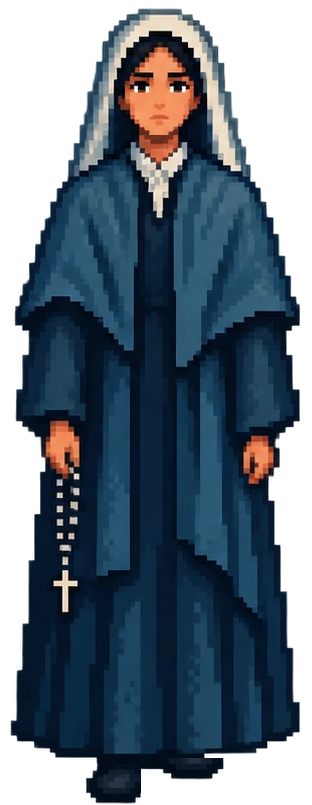
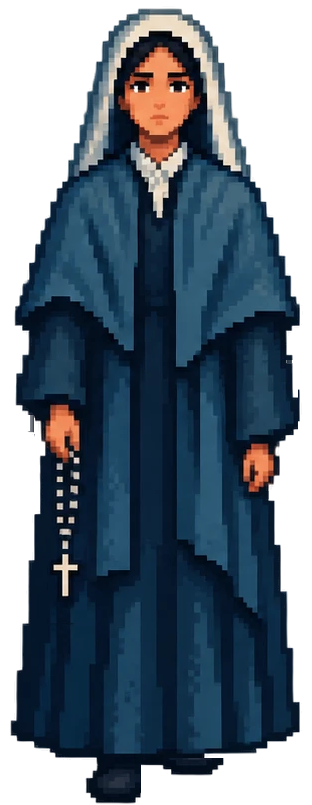
Smoother scrolling, sharper rendering and a livelier Bernadette walk
Scrolling: the overworld camera no longer rounds its scroll to whole world
pixels (Phaser floors it when roundPixels is on, so the ground jumped
3,3,5,3,3,7 framebuffer px per frame and diagonals stepped x and y on
different frames). Exact diagonals now start with x and y in the same
sub-pixel phase so both axes step together, physics steps once per rendered
frame (fixed 1/60s ticks stuttered on non-60Hz displays: 0,4,0,5,0,0,5 px at
144Hz), and the player's shadow syncs after physics instead of a frame late.

Rendering: PIXEL_SCALE 2 -> 4 (1920x1080 framebuffer), so Bernadette's art
gets ~196 framebuffer px instead of ~98, and the canvas is scaled smoothly by
the browser instead of nearest-neighbour. The ground layer skips tile culling,
which mis-culled at the new scale because of the top-left camera origin.

Walk: new frames built only from whole-pixel moves of the original art: arms
swing (front/back hands rise and drop, side arm shears about the shoulder),
the body bobs with each step, and the steps are longer.

Claude-Session: https://claude.ai/code/session_01SDh85j35maCe9Ux2UrYCxE

diff --git a/src/assets/player/bernadetteSprite.ts b/src/assets/player/bernadetteSprite.ts
@@ -1,6 +1,7 @@
 import Phaser from 'phaser';
 import { idleAnimKeyFor, textureKeyFor, walkAnimKeyFor, type FacingKey } from '../../pixelart/characters';
 import sideIdleUrl from './bernadette_side_idle.png';
+import sideWalkCUrl from './bernadette_side_walk_c.png';
 import sideWalkA1Url from './bernadette_side_walk_a1.png';
 import sideWalkA2Url from './bernadette_side_walk_a2.png';
 import sideWalkB1Url from './bernadette_side_walk_b1.png';
@@ -8,6 +9,7 @@ import sideWalkB2Url from './bernadette_side_walk_b2.png';
 import sideBreath1Url from './bernadette_side_breath_1.png';
 import sideBreath2Url from './bernadette_side_breath_2.png';
 import backIdleUrl from './bernadette_back_idle.png';
+import backWalkCUrl from './bernadette_back_walk_c.png';
 import backWalkA1Url from './bernadette_back_walk_a1.png';
 import backWalkA2Url from './bernadette_back_walk_a2.png';
 import backWalkB1Url from './bernadette_back_walk_b1.png';
@@ -15,6 +17,7 @@ import backWalkB2Url from './bernadette_back_walk_b2.png';
 import backBreath1Url from './bernadette_back_breath_1.png';
 import backBreath2Url from './bernadette_back_breath_2.png';
 import frontIdleUrl from './bernadette_front_idle.png';
+import frontWalkCUrl from './bernadette_front_walk_c.png';
 import frontWalkA1Url from './bernadette_front_walk_a1.png';
 import frontWalkA2Url from './bernadette_front_walk_a2.png';
 import frontWalkB1Url from './bernadette_front_walk_b1.png';
@@ -38,30 +41,37 @@ import frontBreath2Url from './bernadette_front_breath_2.png';
  * this one constant, so it applies uniformly to every facing/texture/animation frame (and her
  * shadow via `SHADOW_SCALE`).
  *
- * Walk frames (`_walk_a1/a2/b1/b2`): each idle image splits cleanly at a measured `feet_top` row
- * (side 760, front 758, back 764) below which there is nothing but boots. Every pixel above that
- * row -- head, veil, cape, hands, rosary and the entire habit -- is copied verbatim into every walk
- * frame (verified identical to idle, frame by frame). Only the boots below it are recomposed, by
- * pure integer translation of the original boot pixels, and whatever a raised foot would push
- * above `feet_top` is clipped away: the foot disappears *behind* the hem rather than over it.
- *  - Front/back: the stepping foot rises behind the hem (half, then full lift) while the other
- *    stays planted; `a*` lifts the left foot, `b*` the right.
- *  - Side: idle is the passing pose; stride frames spread the near foot forward and a slightly
- *    darkened copy of it (the far foot) back with its heel raised, `a*` near-foot-forward,
- *    `b*` far-foot-forward.
- * In every frame the planted foot keeps the idle pose's exact lowest row, so the ground-contact
- * line and the canvas/origin never move.
+ * Walk frames (`_walk_c/a1/a2/b1/b2`), livelier second pass ("que se mueva más, también los
+ * brazos"). Still nothing but whole-pixel moves of the original pixels -- no redrawing, no
+ * resampling -- in three layers:
+ *  - Feet: below a measured `feet_top` row (side 760, front 758, back 764) there is nothing but
+ *    boots. Front/back: the stepping foot rises behind the hem (14, then 28 px) while the other
+ *    stays planted; `a*` lifts the image-left foot, `b*` the right. Side: the near foot strides
+ *    forward and a slightly darkened copy of it (the far foot) back with its heel raised (+-20,
+ *    then +-40 px). Anything pushed above `feet_top` is clipped: feet go *behind* the hem.
+ *  - Arms, swinging against the feet: front/back -- the forward arm's forearm/hand(/rosary)
+ *    slides up 16 px (its sleeve loses that many rows: foreshortening) while the other slides
+ *    down 8 (its sleeve repeats a few rows of itself); the gap under a raised hand is filled with
+ *    the vertically-striped skirt right below it. Side -- sleeve, hand and rosary shear sideways,
+ *    0 at the shoulder growing to +-18 px at the hand (a small swing about the shoulder), the gap
+ *    behind filled by extending the neighbouring fabric of the same row. Arm regions were traced
+ *    from zoomed, gridded crops of the idle art.
+ *  - Bob: everything above a seam row low in the skirt drops by 0/6/12 px (rows of plain skirt
+ *    removed at the seam): lowest at contact, highest at passing. Hem and boots never move.
+ * `c` is the contact pose for front/back (feet together, arms neutral, body low) and the passing
+ * pose for side (identical to idle). In every frame the ground-contact row stays the idle pose's,
+ * so the canvas/origin never moves.
  *
  * Breathing frames (`_breath_1/2`): everything above a seam row low in the skirt sinks by 5 / 10
- * native px (about half / one framebuffer pixel at her display size), by dropping that many rows
- * of the plain vertically-striped skirt at the seam -- whole rows of the original pixels, no
+ * native px (about 1 / 2.5 framebuffer pixels at her display size), by dropping that many rows of
+ * the plain vertically-striped skirt at the seam -- whole rows of the original pixels, no
  * resampling. Below the seam (hem and boots) nothing changes. The seam row was picked per facing
  * where dropping rows is least visible (side 662, front 631, back 701).
  */
 const BERNADETTE_DISPLAY_HEIGHT_BEFORE_THIS_RESIZE = 72 * 0.4 * 2;
 export const BERNADETTE_FRAME_HEIGHT = BERNADETTE_DISPLAY_HEIGHT_BEFORE_THIS_RESIZE * 0.85;
 
-const WALK_STEPS = ['a1', 'a2', 'b1', 'b2'] as const;
+const WALK_STEPS = ['c', 'a1', 'a2', 'b1', 'b2'] as const;
 type WalkStep = (typeof WALK_STEPS)[number];
 
 const IDLE_URL_BY_FACING: Record<FacingKey, string> = {
@@ -70,9 +80,9 @@ const IDLE_URL_BY_FACING: Record<FacingKey, string> = {
   down: frontIdleUrl,
 };
 const WALK_URLS_BY_FACING: Record<FacingKey, Record<WalkStep, string>> = {
-  side: { a1: sideWalkA1Url, a2: sideWalkA2Url, b1: sideWalkB1Url, b2: sideWalkB2Url },
-  up: { a1: backWalkA1Url, a2: backWalkA2Url, b1: backWalkB1Url, b2: backWalkB2Url },
-  down: { a1: frontWalkA1Url, a2: frontWalkA2Url, b1: frontWalkB1Url, b2: frontWalkB2Url },
+  side: { c: sideWalkCUrl, a1: sideWalkA1Url, a2: sideWalkA2Url, b1: sideWalkB1Url, b2: sideWalkB2Url },
+  up: { c: backWalkCUrl, a1: backWalkA1Url, a2: backWalkA2Url, b1: backWalkB1Url, b2: backWalkB2Url },
+  down: { c: frontWalkCUrl, a1: frontWalkA1Url, a2: frontWalkA2Url, b1: frontWalkB1Url, b2: frontWalkB2Url },
 };
 const BREATH_URLS_BY_FACING: Record<FacingKey, [string, string]> = {
   side: [sideBreath1Url, sideBreath2Url],
@@ -115,7 +125,7 @@ export function preloadBernadetteSprite(scene: Phaser.Scene): void {
  * and LINEAR is what makes that downscale read smooth instead of aliased.
  *
  * One walk animation per facing, 8 frames at 12fps (~0.67s per full two-step cycle):
- * `[idle, a1, a2, a1, idle, b1, b2, b1]` -- each foot eases up and back down rather than snapping.
+ * `[c, a1, a2, a1, c, b1, b2, b1]` -- each step eases in and back out rather than snapping.
  * `Player.ts` only plays this while actually moving.
  *
  * One idle (breathing) animation per facing, played whenever she stands still (including while
@@ -136,7 +146,7 @@ export function registerBernadetteSprite(scene: Phaser.Scene): void {
     if (!scene.anims.exists(animKey)) {
       scene.anims.create({
         key: animKey,
-        frames: [idleKey, key('a1'), key('a2'), key('a1'), idleKey, key('b1'), key('b2'), key('b1')].map((k) => ({ key: k })),
+        frames: [key('c'), key('a1'), key('a2'), key('a1'), key('c'), key('b1'), key('b2'), key('b1')].map((k) => ({ key: k })),
         frameRate: 12,
         repeat: -1,
       });

diff --git a/src/gameplay/Player.ts b/src/gameplay/Player.ts
@@ -1,5 +1,5 @@
 import Phaser from 'phaser';
-import { DEPTH } from '../core/constants';
+import { DEPTH, PIXEL_SCALE } from '../core/constants';
 import { BERNADETTE_SHADOW_KEY, textureKeyFor } from '../pixelart/characters';
 import { BERNADETTE_FRAME_HEIGHT } from '../assets/player/bernadetteSprite';
 import { updateFacingAnimation, type Facing } from './spriteFacing';
@@ -50,6 +50,7 @@ export class Player extends Phaser.Physics.Arcade.Sprite {
   private touch: TouchControls | null;
   private locked = false;
   private shadow: Phaser.GameObjects.Image;
+  private lastDiagonal: string | null = null;
 
   constructor(scene: Phaser.Scene, x: number, y: number, touch: TouchControls | null = null) {
     super(scene, x, y, textureKeyFor('bernadette', 'down'));
@@ -79,6 +80,10 @@ export class Player extends Phaser.Physics.Arcade.Sprite {
     this.shadow = scene.add.image(x, y - 1, BERNADETTE_SHADOW_KEY);
     this.shadow.setOrigin(0.5, 0.5);
     this.shadow.setScale(SHADOW_SCALE);
+    // Arcade only writes this frame's movement into x/y on POST_UPDATE (see
+    // `OverworldScene.ts#updateCameraFollow()`), so syncing from `update()` alone left the shadow
+    // one frame behind her feet while walking.
+    scene.events.on(Phaser.Scenes.Events.POST_UPDATE, this.syncShadow, this);
 
     const keyboard = scene.input.keyboard!;
     this.cursors = keyboard.createCursorKeys();
@@ -139,6 +144,7 @@ export class Player extends Phaser.Physics.Arcade.Sprite {
     }
 
     this.moving = vx !== 0 || vy !== 0;
+    this.syncDiagonalPhase(vx, vy);
     if (this.moving) {
       // Normalize so diagonal movement isn't faster than a single cardinal direction.
       const len = Math.hypot(vx, vy) || 1;
@@ -152,12 +158,40 @@ export class Player extends Phaser.Physics.Arcade.Sprite {
     this.syncShadow();
   }
 
+  /**
+   * On an exact diagonal (keyboard: |vx| == |vy|) the camera scrolls the same distance on both
+   * axes every frame, but the ground can only land on whole framebuffer pixels -- and if her x and
+   * y sit at different sub-pixel phases, the x and y one-pixel steps happen on *different* frames,
+   * so the ground wobbles sideways around the direction of travel ("marea", worst on diagonals).
+   * When a diagonal starts, nudge y by under one framebuffer pixel (1/PIXEL_SCALE of a world pixel
+   * -- invisible, the camera follows her exactly) so both axes share one phase and step together.
+   * Measured against a sharp test grid on the framebuffer, all four diagonals: without this the
+   * axes were out of step on 11-18 of 23 frames, with it on none once the diagonal is under way.
+   * Done once per diagonal, never per frame, so sliding along a wall can't turn it into a
+   * back-and-forth.
+   */
+  private syncDiagonalPhase(vx: number, vy: number): void {
+    const diagonal = vx !== 0 && Math.abs(vx) === Math.abs(vy) ? `${Math.sign(vx)},${Math.sign(vy)}` : null;
+    if (diagonal && diagonal !== this.lastDiagonal) {
+      const frac = (v: number) => v * PIXEL_SCALE - Math.floor(v * PIXEL_SCALE);
+      const fx = frac(this.x);
+      // Same direction on both axes -> same phase; opposite directions -> mirrored phase.
+      const target = Math.sign(vx) === Math.sign(vy) ? fx : (1 - fx) % 1;
+      let dy = target - frac(this.y);
+      if (dy > 0.5) dy -= 1;
+      if (dy < -0.5) dy += 1;
+      this.y += dy / PIXEL_SCALE;
+    }
+    this.lastDiagonal = diagonal;
+  }
+
   /** The shadow tracks her x/y (ground position) only. */
   private syncShadow(): void {
     this.shadow.setPosition(this.x, this.y - 1);
   }
 
   destroy(fromScene?: boolean): void {
+    this.scene?.events.off(Phaser.Scenes.Events.POST_UPDATE, this.syncShadow, this);
     this.shadow.destroy();
     super.destroy(fromScene);
   }

diff --git a/src/scenes/OverworldScene.ts b/src/scenes/OverworldScene.ts
@@ -271,6 +271,10 @@ export class OverworldScene extends Phaser.Scene {
 
   create(data: OverworldSceneData): void {
     useLetterboxScale(this);
+    // See `updateCameraFollow()`'s doc comment: with roundPixels on, Phaser floors the scroll to
+    // whole *world* pixels (PIXEL_SCALE framebuffer pixels at once), so the ground advanced in
+    // uneven jumps -- and on diagonals the two axes jumped out of step ("marea").
+    this.cameras.main.setRoundPixels(false);
     this.cameras.main.fadeIn(400, 0, 0, 0);
     this.phase = 'explore';
     this.friendMet = false;
@@ -484,6 +488,12 @@ export class OverworldScene extends Phaser.Scene {
     )!;
     const grassLayer = grassMap.createLayer(0, grassTileset, 0, 0)!;
     grassLayer.setDepth(DEPTH.GROUND - 1);
+    // Phaser culls tiles against `camera.worldView`, which it computes assuming the camera's origin
+    // is its centre -- this game pins it to the top-left (`core/scaleMode.ts`), so worldView sits
+    // `(width - width/zoom) / 2` px off. At PIXEL_SCALE 2 the default one-tile cull padding happened
+    // to cover that; at 4 it doesn't, and most of the ground went missing. The whole map is only
+    // 3x6 of these 157px tiles, so just draw them all.
+    grassLayer.setSkipCull(true);
 
     // The vertical arm beside the grotto is never crossable on foot -- only the scripted ford
     // cutscene crosses it (see this method's own doc comment above for why the collider stays even
@@ -611,8 +621,15 @@ export class OverworldScene extends Phaser.Scene {
    * `Phaser.Scenes.Events.POST_UPDATE` listener instead -- same formula, same method, just read at
    * the point in the frame where `player.x`/`.y` is actually final.
    *
-   * `camera.roundPixels` (on globally from `pixelArt: true`) still pixel-snaps every sprite/tile
-   * for crisp rendering, and `camera.setBounds()`'s own edge clamping still applies for free:
+   * `camera.roundPixels` is turned OFF for this scene's camera (see `create()`), even though
+   * `pixelArt: true` turns it on globally: Phaser's `Camera.preRender()` then `Math.floor()`s the
+   * scroll to whole WORLD pixels -- `PIXEL_SCALE` framebuffer pixels per step -- so at walking
+   * speed the ground advanced in uneven jumps (measured from the framebuffer: 3,3,5,3,3,7 px per
+   * frame walking right, and on diagonals the x and y jumps landing on different frames, which is
+   * what read as dizzying). Without the floor the scroll is exact, so she stays exactly centred and
+   * the world moves by the same amount every frame; NEAREST tiles still sample whole texels, just
+   * at the framebuffer's much finer pixel grid. `camera.setBounds()`'s own edge clamping still
+   * applies for free:
    * Phaser's `preRender()` always runs `clampX`/`clampY` on `scrollX`/`scrollY` after this method
    * sets them. The one tradeoff versus the old lerp is the soft "camera lag" feel on direction
    * changes is gone -- the camera now tracks her instantly and exactly, which is what a simple,

diff --git a/src/main.ts b/src/main.ts
@@ -38,7 +38,13 @@ const config: Phaser.Types.Core.GameConfig = {
   },
   physics: {
     default: 'arcade',
-    arcade: { debug: false },
+    // `fixedStep: false`: step physics once per rendered frame by that frame's real delta, instead
+    // of in fixed 1/60s ticks. With fixed ticks, any display that isn't exactly 60Hz (59.94, 75,
+    // 120, 144...) gets frames with zero or two physics steps in an uneven rhythm -- measured on
+    // the framebuffer at 144Hz the ground moved 0,4,0,5,0,0,5,... px per frame -- which reads as
+    // stutter/dizziness while walking. Speeds are low enough that per-frame steps can't tunnel
+    // through any collider.
+    arcade: { debug: false, fixedStep: false },
   },
   // Phaser renders simultaneously-active scenes in this array's order (earlier = further back),
   // regardless of which was launched more recently — `scene.launch()` activates an already
@@ -59,4 +65,14 @@ const config: Phaser.Types.Core.GameConfig = {
   ],
 };
 
-new Phaser.Game(config);
+const game = new Phaser.Game(config);
+
+// `pixelArt: true` also makes Phaser style the canvas `image-rendering: pixelated`, i.e. the browser
+// scales the whole framebuffer to the window with nearest-neighbour. Now that the framebuffer is
+// usually *larger* than what the window shows (`PIXEL_SCALE` in `constants.ts`), nearest-neighbour
+// would just drop rows/columns -- uneven, and crawling while the camera scrolls -- so let the browser
+// scale it smoothly instead. Sprites/tiles themselves are still crisp; that's decided per texture
+// on the GPU, not by this CSS.
+game.events.once(Phaser.Core.Events.READY, () => {
+  game.canvas.style.imageRendering = 'auto';
+});

diff --git a/src/core/constants.ts b/src/core/constants.ts
@@ -27,7 +27,13 @@ export const GAME_HEIGHT = 270;
 // use `pointer.worldX`/`worldY` instead -- see `TouchControls.ts`, `Slider.ts`, `MapEditorPanel.ts`'s
 // panel-edge check, `OverworldScene.ts`'s editor pan, and `ApparitionJourneyScene.ts`'s drag/tap for
 // the handful of call sites that needed this fix.
-export const PIXEL_SCALE = 2;
+//
+// Raised again from 2 to 4 ("¿por qué se ve peor que la imagen que te mandé?"): at 2 Bernadette's
+// ~800px-tall art was being squeezed into ~98 framebuffer pixels, which is what made her look so
+// much rougher in game than the sheet itself. At 4 she gets ~196, and the framebuffer (1920x1080)
+// is at least as large as most screens show it, so the browser only ever scales it *down*
+// (smoothly -- see `main.ts`), never up into uneven blocky pixels.
+export const PIXEL_SCALE = 4;
 
 export const RENDER_WIDTH = GAME_WIDTH * PIXEL_SCALE;
 export const RENDER_HEIGHT = GAME_HEIGHT * PIXEL_SCALE;

diff --git a/index.html b/index.html
@@ -22,9 +22,7 @@
       height: 100%;
     }
     #app canvas {
-      image-rendering: pixelated;
-      image-rendering: -moz-crisp-edges;
-      image-rendering: crisp-edges;
+      image-rendering: auto;
     }
   </style>
 </head>
